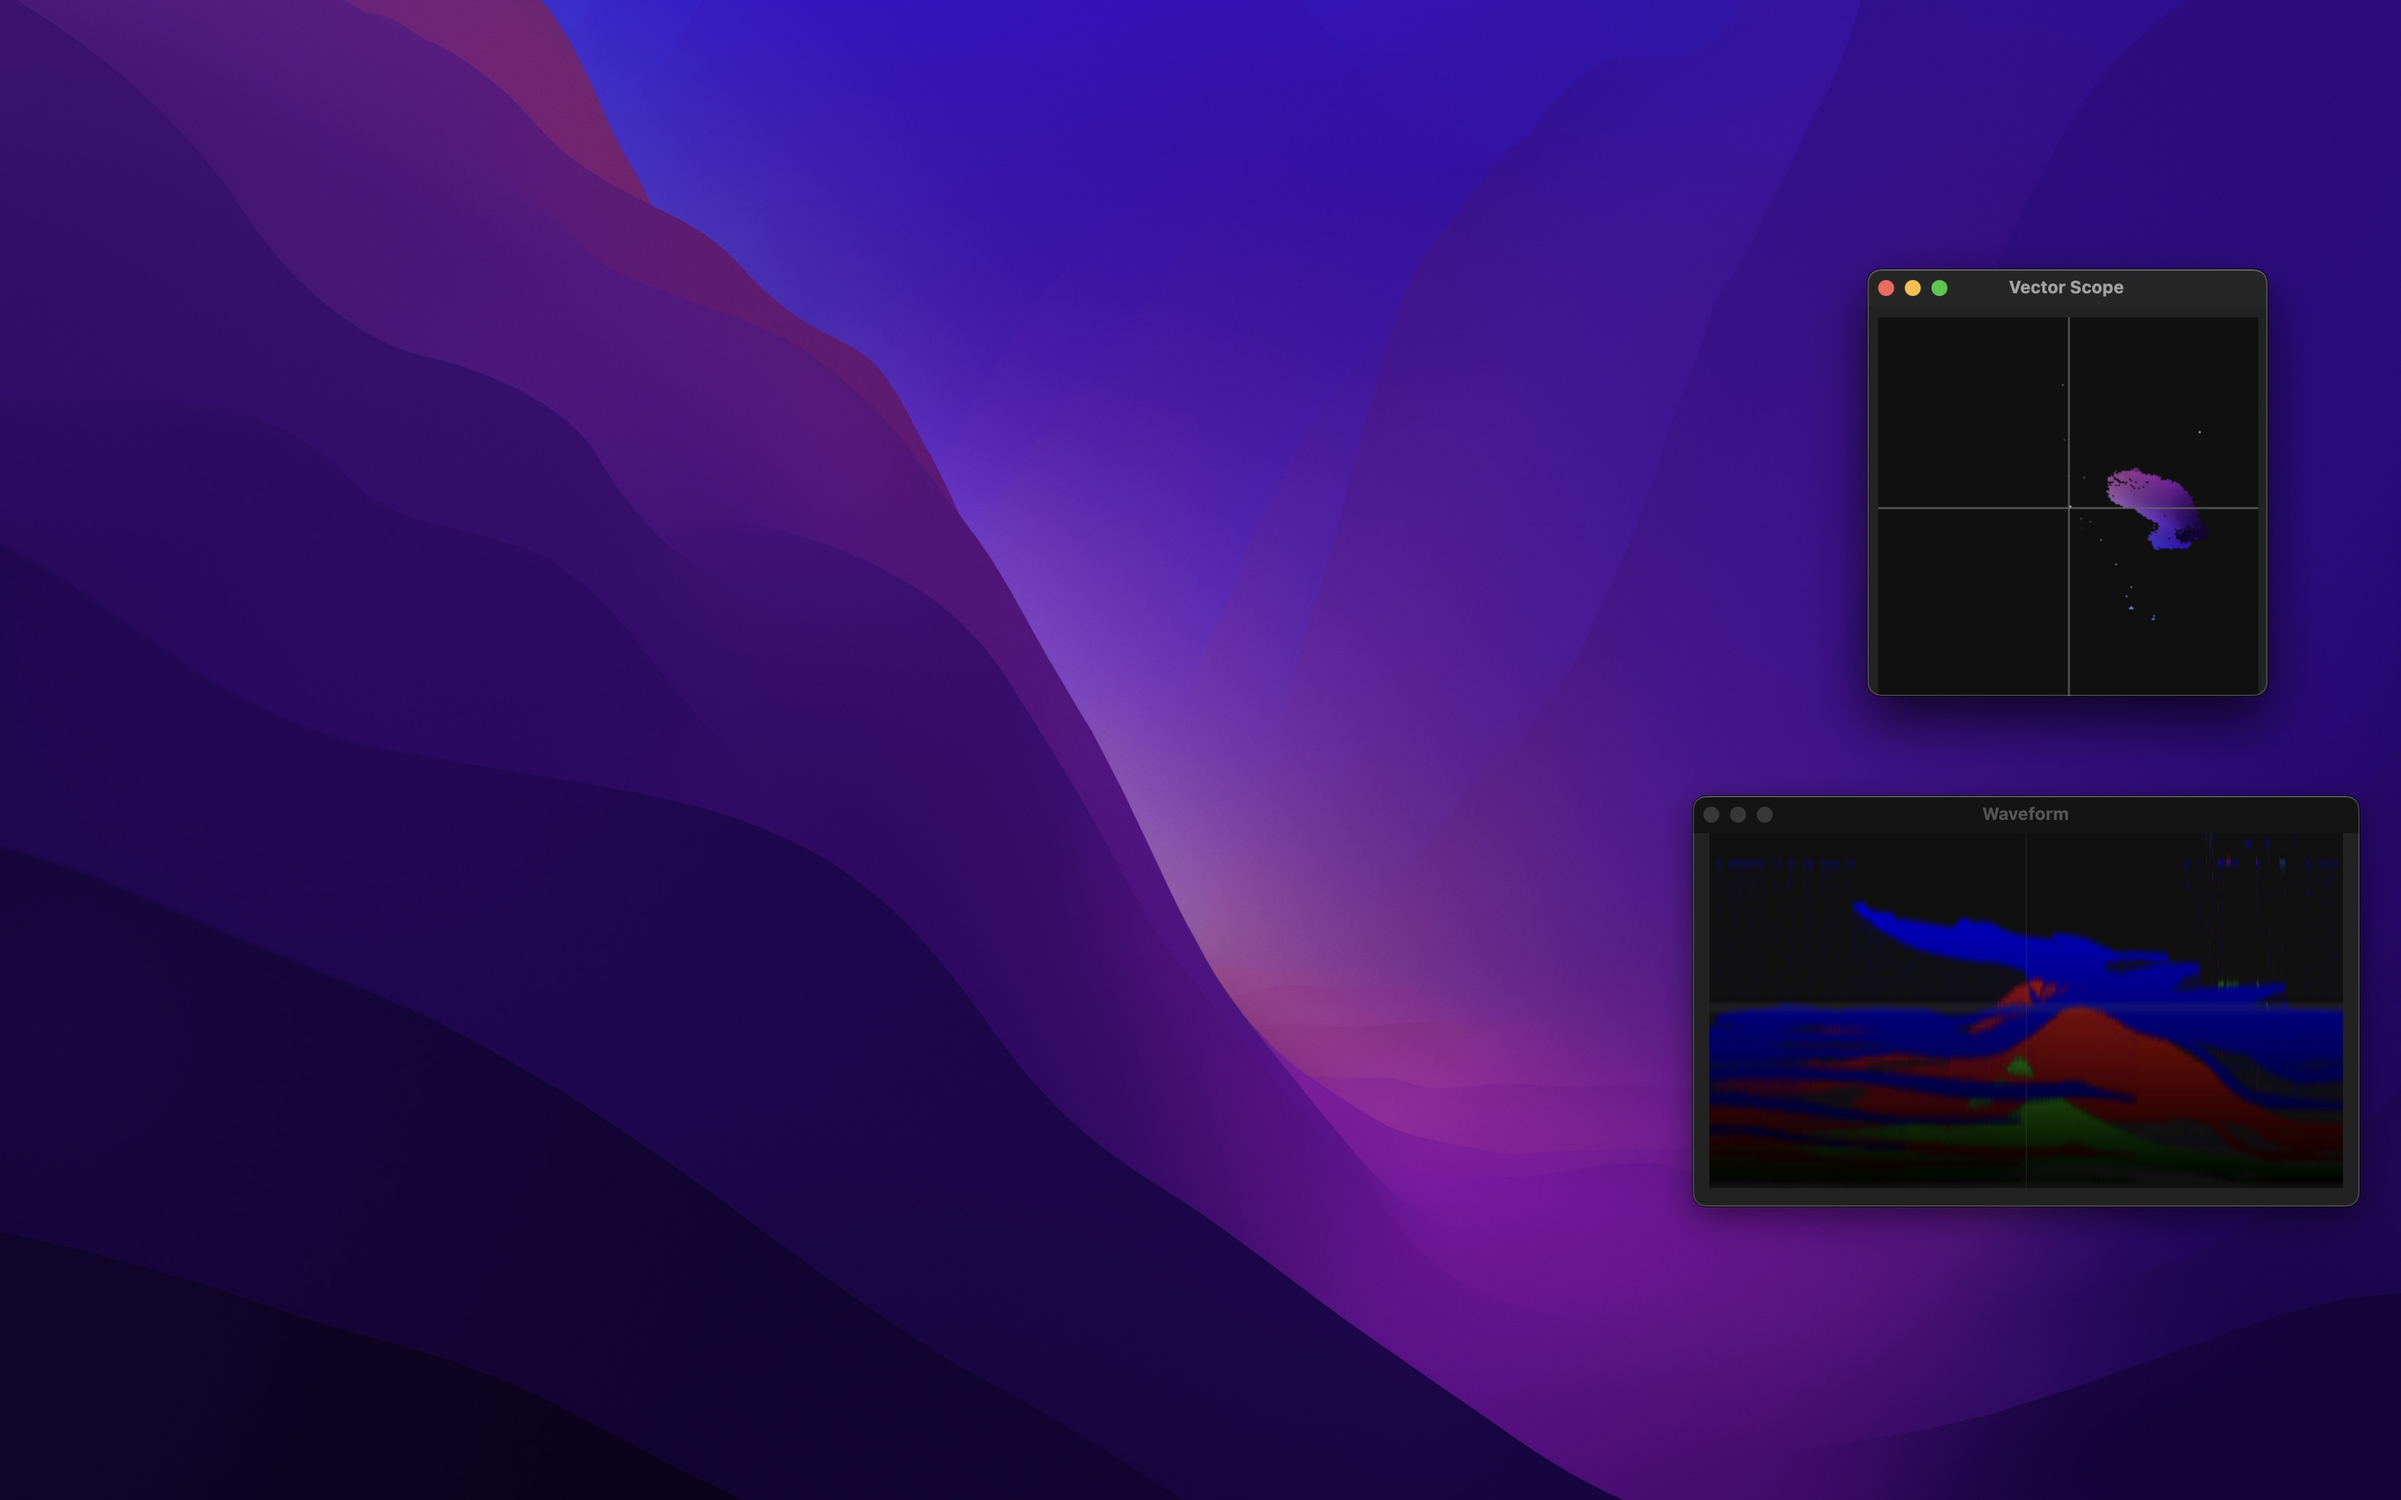
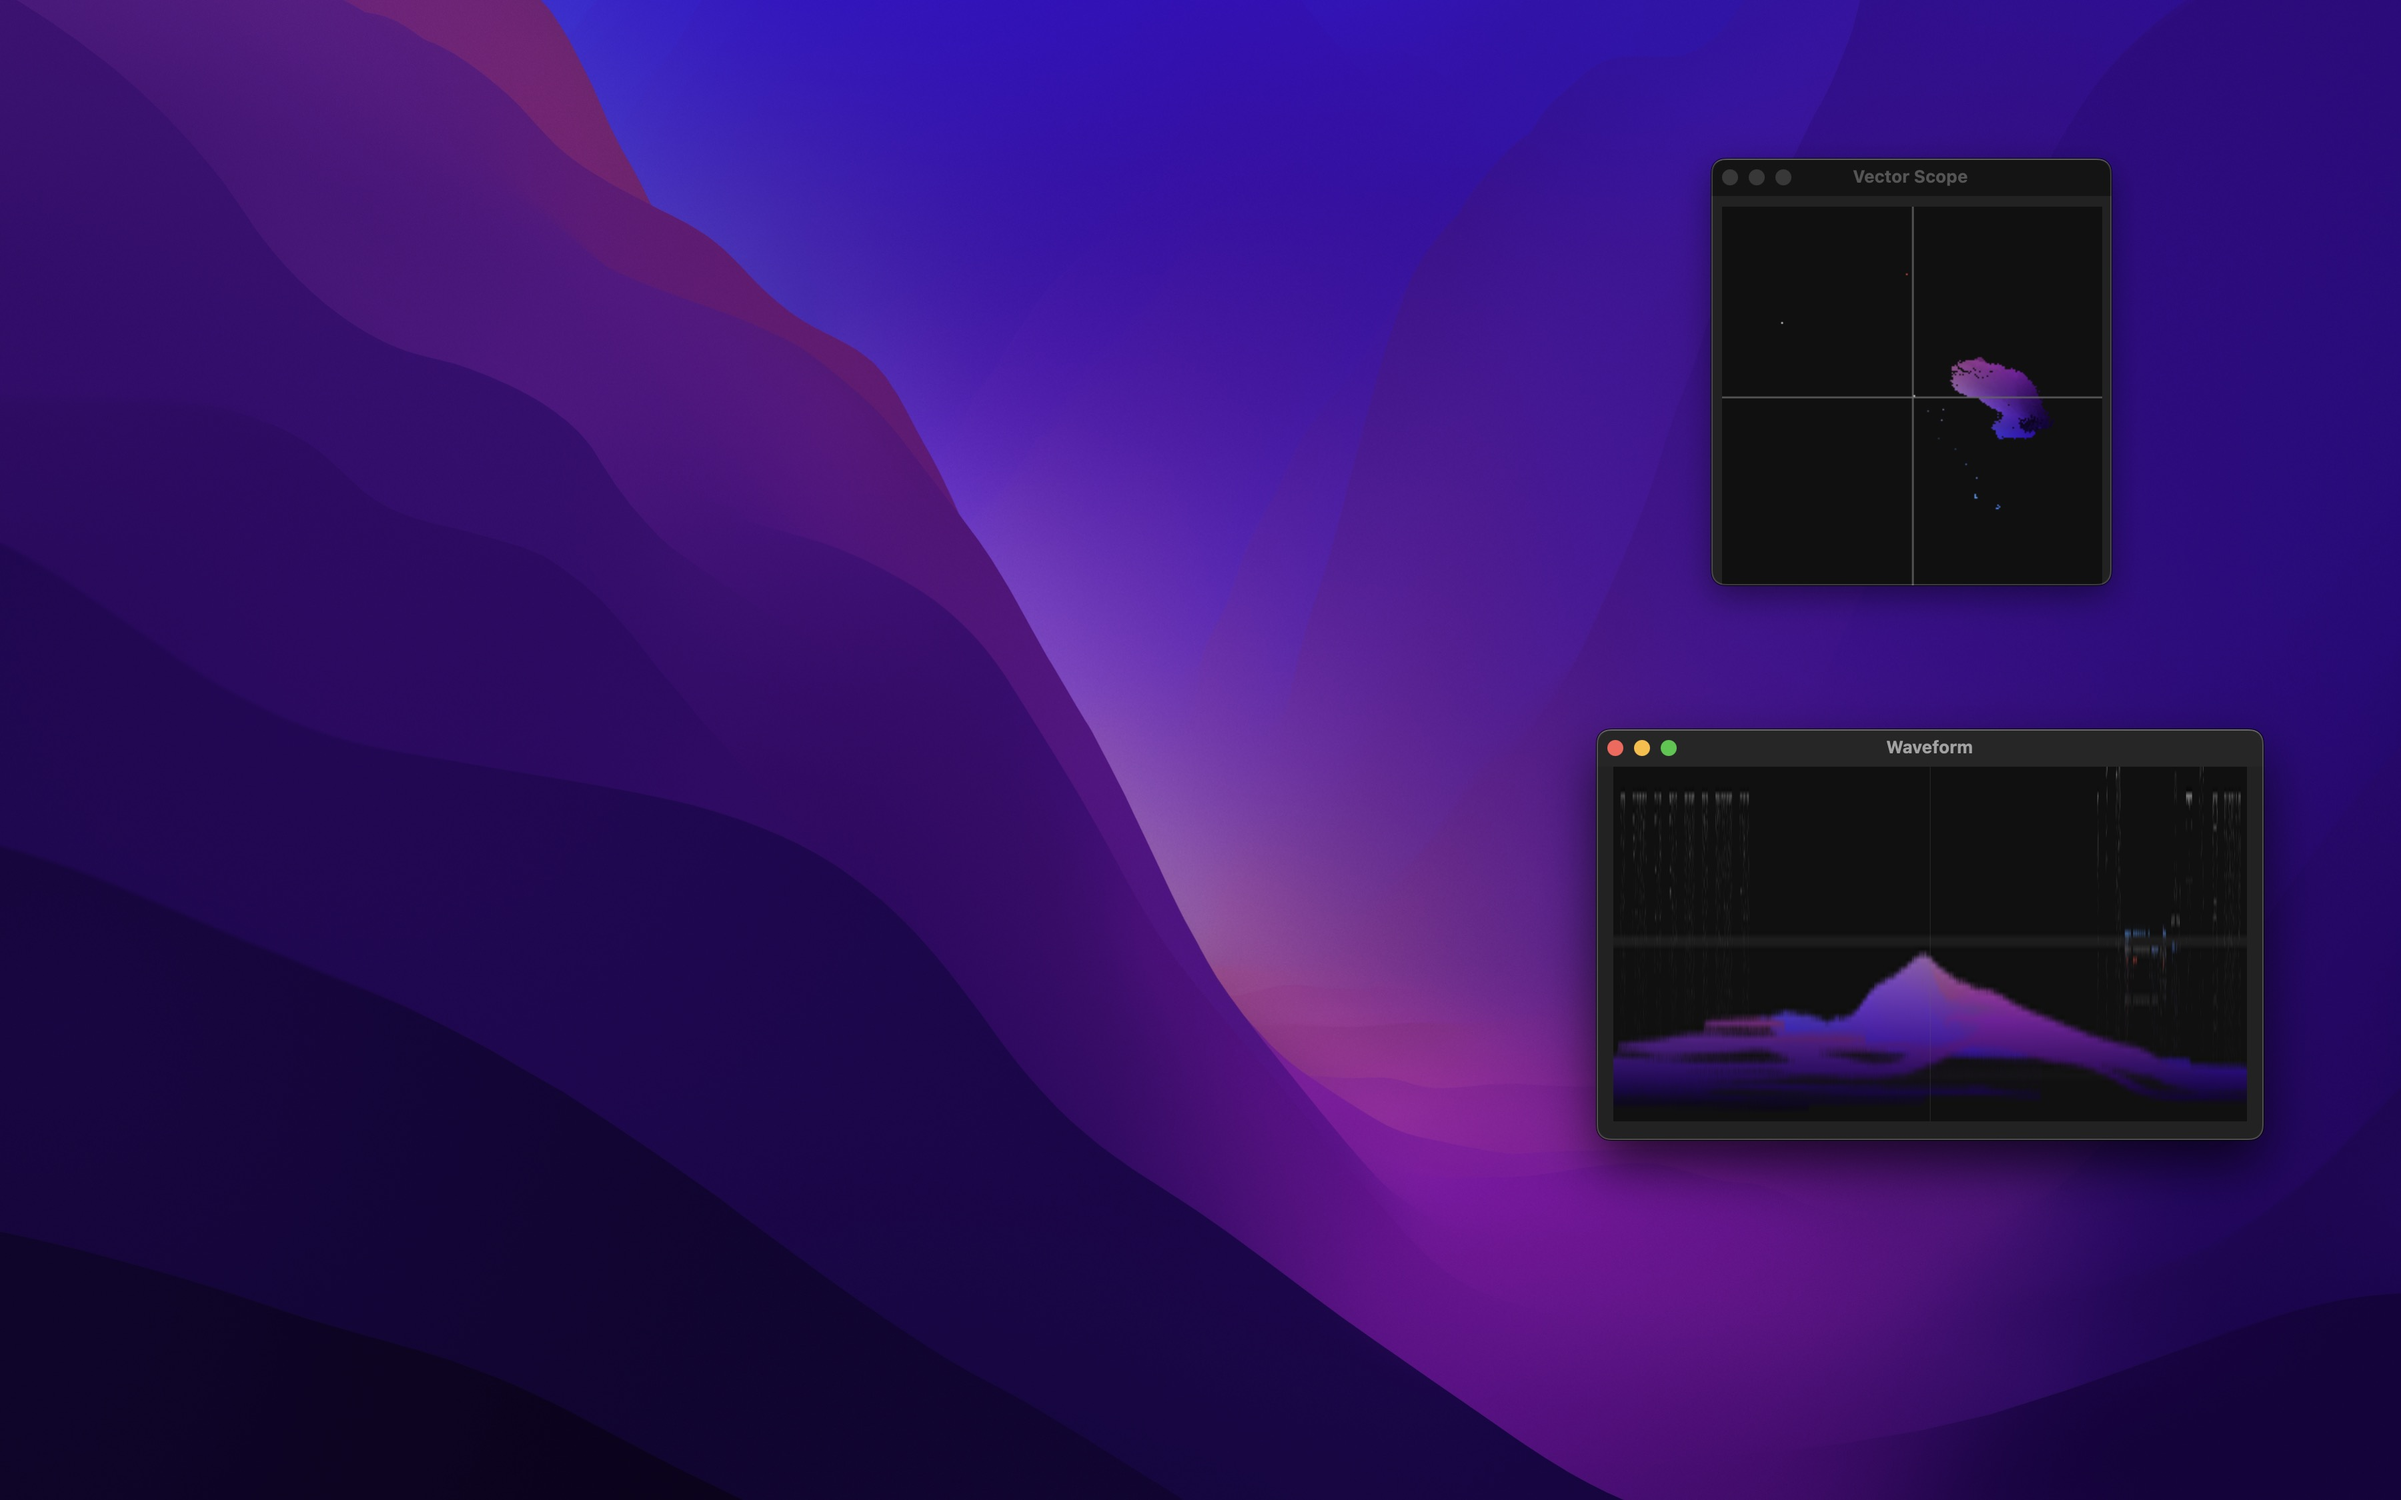
Update README and screen shot

Changed region(s): [[0.6533, 0.0933, 0.9956, 0.84]]

diff --git a/src-tauri/src/model/graph_plotter.rs b/src-tauri/src/model/graph_plotter.rs
@@ -205,13 +205,13 @@ pub fn draw_waveform_luminance(image: &Image) -> Result<Vec<u8>, Box<dyn std::er
             let blue = image_vec[pixel * 4 + 2];
             // let _alpha = image_vec[pixel * 4 + 3];
 
-            // plot pixels
             let plot_x = (pixel as u32 % image_width) as i32;
             let luminace = (0.30 * red as f32) + (0.56 * green as f32) + (0.14 * blue as f32);
             let backend_color = plotters_backend::BackendColor {
                 alpha: 1.0,
                 rgb: (red, green, blue),
             };
+
             root.draw_pixel((plot_x, luminace as i32), backend_color)
                 .expect("Error on plot pixel");
 

diff --git a/README.md b/README.md
@@ -40,7 +40,7 @@ Lightweight screen color analyze tool powered by Tauri.
   - [x] Capturing area specified analyze
   - [ ] Better UI
 - [x] Add waveform
-  - [ ] Add luminance view
+  - [x] Add luminance view
   - [ ] Add separate RGB view
 - [ ] Add around mouse local analyze feature
 - [ ] Add user configuration
